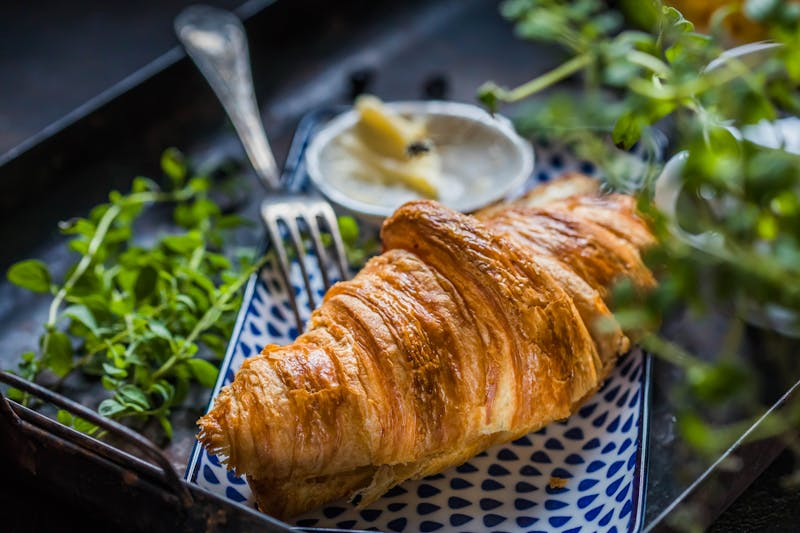
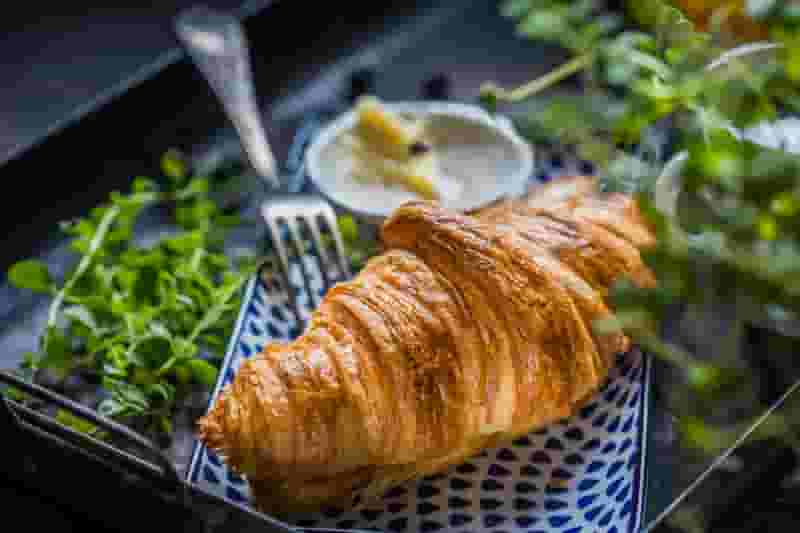
fix: improve LCP, performace, and reduce image resolution

diff --git a/index.html b/index.html
@@ -75,7 +75,7 @@
     
     </div>
     <div class="hero-image animate-on-scroll">
-      <img src="assets/hero/cafe-exterior.jpg">
+      <img fetchpriority="high" width="728" height="1092" src="assets/hero/cafe-exterior.jpg" alt="Photo of cafe exterior">
     </div>
     </div>
     <div class="hero-scroll-indicator">
@@ -91,7 +91,7 @@
         <div class="about-image-col animate-on-scroll">
           <div class="about-image-wrapper">
             <div class="about-image">
-              <img src="assets/interior/cafe-interior-warm.jpg" alt="cafe-interior-warm.jpg">
+              <img src="assets/interior/cafe-interior-warm.jpg" alt="cafe-interior-warm.jpg" width="724" height="966">
             </div>
             <div class="about-accent-box">
               <span class="accent-number">Est.</span>
@@ -437,7 +437,7 @@
         </div>
         <div class="find-us-map animate-on-scroll">
           <div class="map-container">
-            <iframe src="https://www.google.com/maps/embed?pb=!1m18!1m12!1m3!1d5758.091396774352!2d-97.7845526244386!3d30.243450674823958!2m3!1f0!2f0!3f0!3m2!1i1024!2i768!4f13.1!3m3!1m2!1s0x8644b4d39a4798ef%3A0x386bd83af4aa2539!2s2847%20S%20Lamar%20Blvd%2C%20Austin%2C%20TX%2078704!5e1!3m2!1sen!2sus!4v1771988812294!5m2!1sen!2sus" width=100% height="400" style="border:0;" allowfullscreen="" loading="lazy" referrerpolicy="no-referrer-when-downgrade"></iframe>
+            <iframe src="https://www.google.com/maps/embed?pb=!1m18!1m12!1m3!1d5758.091396774352!2d-97.7845526244386!3d30.243450674823958!2m3!1f0!2f0!3f0!3m2!1i1024!2i768!4f13.1!3m3!1m2!1s0x8644b4d39a4798ef%3A0x386bd83af4aa2539!2s2847%20S%20Lamar%20Blvd%2C%20Austin%2C%20TX%2078704!5e1!3m2!1sen!2sus!4v1771988812294!5m2!1sen!2sus" width=100% height="400" style="border:0;" allowfullscreen="" loading="lazy" referrerpolicy="no-referrer-when-downgrade" title="Google Map Location"></iframe>
           </div>
         </div>
       </div>

diff --git a/styles.css b/styles.css
@@ -794,10 +794,7 @@ ul { list-style: none; }
   }
   
   .hero-image {
-    width: 100%;
-    max-width: 400px;
-    z-index: 0;
-    aspect-ratio: 4 / 3;
+    display: none;
   }
 }
 
